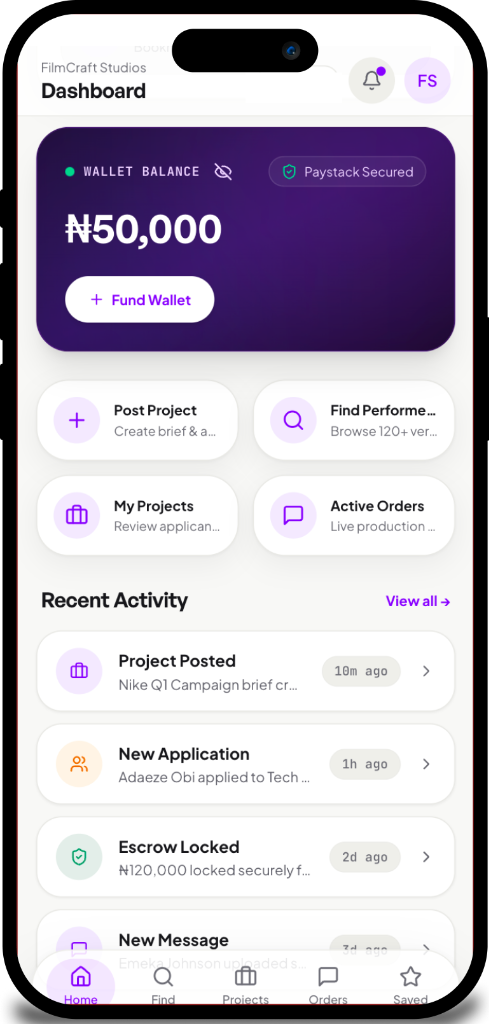
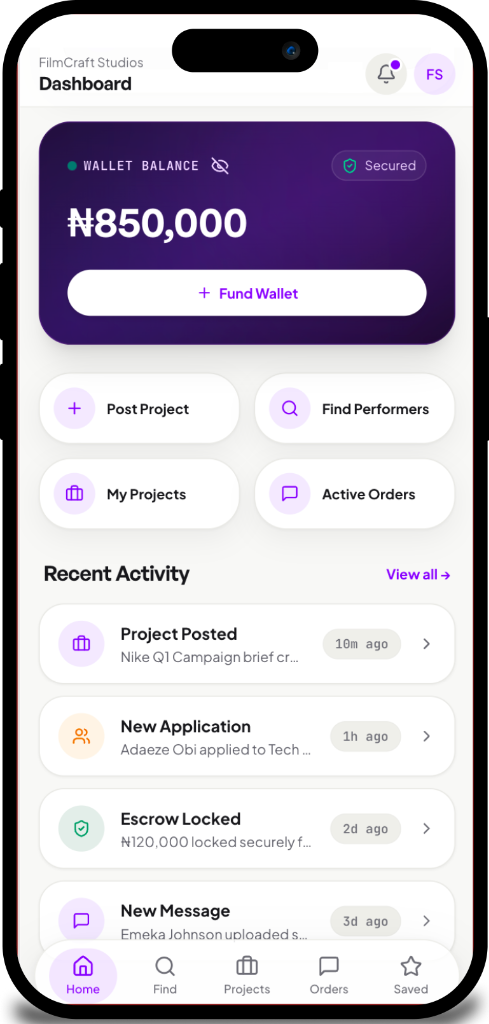
fix(assets): update onboarding device mockups with latest dashboard states

diff --git a/monologg/handoff/design.md b/monologg/handoff/design.md
@@ -1,7 +1,7 @@
 # Monologg — Design & Architecture Reference
 
-**Last updated:** 2026-10-26 (Session 170: Performer Dashboard Horizontal Quick Action Layout Parity)
-**Status:** Full-stack product. All 18 phases of `features.md` (0–17) + Phase 12B Supabase Auth identity bridge + Phase 12C + Sessions 39–169 + Session 170 Performer Dashboard Horizontal Quick Actions.
+**Last updated:** 2026-10-26 (Session 171: Onboarding Device Mockup Asset Refresh)
+**Status:** Full-stack product. All 18 phases of `features.md` (0–17) + Phase 12B Supabase Auth identity bridge + Phase 12C + Sessions 39–170 + Session 171 Onboarding Device Mockup Refresh.
 **This is a living document** — update it whenever the stack, a page, or a PRD gap changes, in the same session as the change. See `README.md` for the full update policy, and `implementation-plan.md` for current status at a glance.
 
 This document is the single place to understand *what Monologg is*, *what's actually been built*, and *what stack decisions govern it*. It's written for whoever picks this project up next — a new developer, a new AI agent, or a PM checking status.
@@ -128,7 +128,7 @@ There is also a page not in the original PRD at all: **`/design-system`** (`Desi
   - Performer POV: `lets help you` / `Find gigs, finish your project`
   - Color contrast: Subtitle `#475569` in light mode, `rgba(255, 255, 255, 0.70)` in dark mode; Headline `#09090b` in light mode, `#FFFFFF` in dark mode.
   - Backdrop image dynamically uses `opacity-15 mix-blend-overlay` in dark mode so the rich dark cosmic gradient is preserved without washing out dark mode contrast, and `opacity-90` in light mode.
-  - Grounded device mockup (`/auth-performer-device.png` and `/auth-client-device.png`), strictly maintaining native `489 / 1024` aspect ratio, positioned `200px` down (`translate-y-[200px]`) for a cropped editorial aesthetic, with zero artificial CSS drop-shadow halos.
+  - Grounded device mockup (`/auth-performer-device.png` and `/auth-client-device.png`), strictly maintaining native `489 / 1024` aspect ratio, positioned `200px` down (`translate-y-[200px]`) for a cropped editorial aesthetic, with zero artificial CSS drop-shadow halos. Updated in Session 171 with high-resolution mobile device captures reflecting the new horizontal quick action cards and single primary CTA hierarchy.
 - **Mobile Degradation:** On screens smaller than `lg` (e.g. mobile devices), the right showcase pane is completely hidden (`hidden lg:flex`), allowing the auth pane to expand to 100% width with centered ergonomics.
 
 As of Phase 4 (Session 14), these call real endpoints through `apiClient` — but **only when `VITE_API_MODE=live`**; the default `mock` mode reproduces the exact original prototype behavior below, so nothing about running the app locally changed unless you explicitly flip the mode.

diff --git a/monologg/handoff/log.md b/monologg/handoff/log.md
@@ -1,11 +1,25 @@
 # Monologg — Implementation Log
 
-**Last updated:** 2026-10-26 (Session 170: Performer Dashboard Horizontal Quick Action Layout Parity)
+**Last updated:** 2026-10-26 (Session 171: Onboarding Device Mockup Asset Refresh)
 **This is a living document** — append a new dated entry every time a code change happens, in the same session as the change. See `README.md` for the full update policy.
 
 Chronological record of what was done, in what order, and why. Each entry names the files touched so you can `git blame`-equivalent your way back to any decision. As of Session 7 this project **is** a git repository — see Session 7 for how, and `git log` from here on for anything not narrated below.
 
 Sessions 1–6 happened before the project was in git, so their dates are the session date, 2026-07-27. Session 7 onward are dated from actual commits/pushes.
+
+---
+
+## Session 171 (2026-10-26) — Onboarding Device Mockup Asset Refresh
+
+**Goal:** Refresh the high-resolution device mockup assets displayed on the onboarding and authentication stage (`AuthFlow.tsx`, `auth-preview.html`) with the latest user-provided mobile device captures reflecting recent design upgrades: horizontal quick actions, sole "Withdraw Funds" primary CTA, pruned filler copy, and updated recent activity streams.
+
+1. **Asset Replacement (`public/auth-performer-device.png`, `public/auth-client-device.png`):**
+   - Replaced `monologg/apps/web/public/auth-performer-device.png` with the new 489x1024 high-definition iPhone mockup showcasing the updated Performer dashboard with horizontal quick actions (`Public Storefront`, `Availability`, `Rate Cards`, `Active Orders`), bold ₦148,000 balance with sole "Withdraw Funds" CTA, and active bookings.
+   - Replaced `monologg/apps/web/public/auth-client-device.png` with the new 489x1024 high-definition iPhone mockup showcasing the updated Client dashboard with ₦850,000 wallet balance, "+ Fund Wallet" CTA, horizontal actions (`Post Project`, `Find Performers`, `My Projects`, `Active Orders`), and clean activity feed.
+2. **Quality & Test Validation:**
+   - Verified image aspect ratios (489 / 1024) and transparency decoding.
+   - Ran `authFlowStress.test.tsx` (5/5 tests passed).
+   - Ran `npm run typecheck` across all workspace packages (0 errors).
 
 ---
 

diff --git a/monologg/handoff/bug.md b/monologg/handoff/bug.md
@@ -1,6 +1,6 @@
 # Monologg — Bug & Issue Log
 
-**Last updated:** 2026-10-26 (Session 170: Performer Dashboard Horizontal Quick Action Layout Parity)
+**Last updated:** 2026-10-26 (Session 171: Onboarding Device Mockup Asset Refresh)
 **This is a living document** — add a new entry every time a bug is found or fixed, in the same session as the fix. See `README.md` for the full update policy.
 
 This tracks every defect found during this engagement — both classic "the build broke" bugs and design-system consistency issues (things that *worked* but would silently drift out of sync on the next change). Severity is defined once here so it means the same thing every time it's used below.
@@ -18,6 +18,15 @@ This tracks every defect found during this engagement — both classic "the buil
 ---
 
 ## Bugs found and fixed during this engagement
+
+### 118. Stale Onboarding Device Mockup Assets Reflecting Deprecated Dashboard UI
+- **Severity:** Low / Asset Parity & Visual Hierarchy Defect
+- **What happened:**
+  - Device mockups shown on the onboarding / authentication split screen (`AuthFlow.tsx`, `auth-preview.html`) showed obsolete UI states (such as older action tags and redundant buttons) that had been superseded in Sessions 169–170.
+- **Root Cause:**
+  - Static raster image files in `public/` required updating with current dashboard screenshots.
+- **Fix:**
+  - Replaced `monologg/apps/web/public/auth-performer-device.png` and `monologg/apps/web/public/auth-client-device.png` with user's updated 489x1024 iPhone captures displaying horizontal quick action cards and single primary CTA.
 
 ### 117. Performer Quick Action Vertical Stacking Layout Disparity
 - **Severity:** Low / Layout Parity & Mobile Ergonomics Defect

diff --git a/monologg/handoff/process.md b/monologg/handoff/process.md
@@ -1,6 +1,6 @@
 # Monologg — How This Was Built: The Process, Step by Step
 
-**Last updated:** 2026-10-26 (Session 170: Performer Dashboard Horizontal Quick Action Layout Parity)
+**Last updated:** 2026-10-26 (Session 171: Onboarding Device Mockup Asset Refresh)
 **This is a living document** — add a new step whenever the high-level process changes (a new phase of work, a new workflow), in the same session as the change. See `README.md` for the full update policy.
 
 This document explains **how** the work happened, in plain language, in the order it happened. If you're technical, it'll double as a checklist you can re-run. If you're not, skip the code-y bits in *italics* and read the rest — it should still make sense.
@@ -12,6 +12,13 @@ Think of the whole engagement as two projects back to back:
 ---
 
 ## Part A — From a zip file to a working app
+
+### Step 130: Onboarding Device Mockup Asset Refresh (Session 171)
+
+Updated the desktop onboarding and authentication showcase panel assets (`AuthFlow.tsx`, `auth-preview.html`):
+- **Asset Replacement:** Replaced `monologg/apps/web/public/auth-performer-device.png` and `monologg/apps/web/public/auth-client-device.png` with the user's latest 489x1024 high-definition mobile device captures.
+- **Visual Synchronization:** The new assets depict the upgraded dashboard states including the horizontal quick action layout, sole "Withdraw Funds" primary CTA on Performer balance hero, and streamlined activity feeds.
+- **Verification:** Ran `authFlowStress.test.tsx` (5/5 tests passing); verified 0 type errors across monorepo.
 
 ### Step 129: Performer Dashboard Horizontal Quick Action Layout Parity (Session 170)
 

diff --git a/monologg/handoff/implementation-plan.md b/monologg/handoff/implementation-plan.md
@@ -1,11 +1,19 @@
 # Monologg — Implementation Plan (Living Document)
 
-**Last updated:** 2026-10-26 (Session 170: Performer Dashboard Horizontal Quick Action Layout Parity)
-**Status:** All 18 phases of `features.md` (0–17) + Phase 12B Supabase Auth + Phase 12C Withdrawal OTP Gate + Sessions 39–169 + Session 170 Performer Dashboard Horizontal Quick Actions.
+**Last updated:** 2026-10-26 (Session 171: Onboarding Device Mockup Asset Refresh)
+**Status:** All 18 phases of `features.md` (0–17) + Phase 12B Supabase Auth + Phase 12C Withdrawal OTP Gate + Sessions 39–170 + Session 171 Onboarding Device Mockup Refresh.
 
 ---
 
 ## ✅ Done
+
+### Session 171 — Onboarding Device Mockup Asset Refresh
+- [x] **Device Mockup Refresh (`public/auth-performer-device.png`, `public/auth-client-device.png`)**:
+  - Replaced device mockup assets on the onboarding/auth desktop hero split-screen (`AuthFlow.tsx`, `auth-preview.html`) with latest user-provided mobile captures.
+  - Performer mockup displays updated horizontal quick actions, single "Withdraw Funds" primary CTA, and recent gig activity.
+  - Client mockup displays ₦850,000 balance, horizontal quick actions, and project feeds.
+- [x] **Quality Gate**:
+  - Verified 489x1024 native resolution and transparency; ran `authFlowStress.test.tsx` (5/5 passing).
 
 ### Session 170 — Performer Dashboard Horizontal Quick Action Layout Parity
 - [x] **Horizontal Quick Action Row Architecture (`TalentDashboard.tsx`)**:
